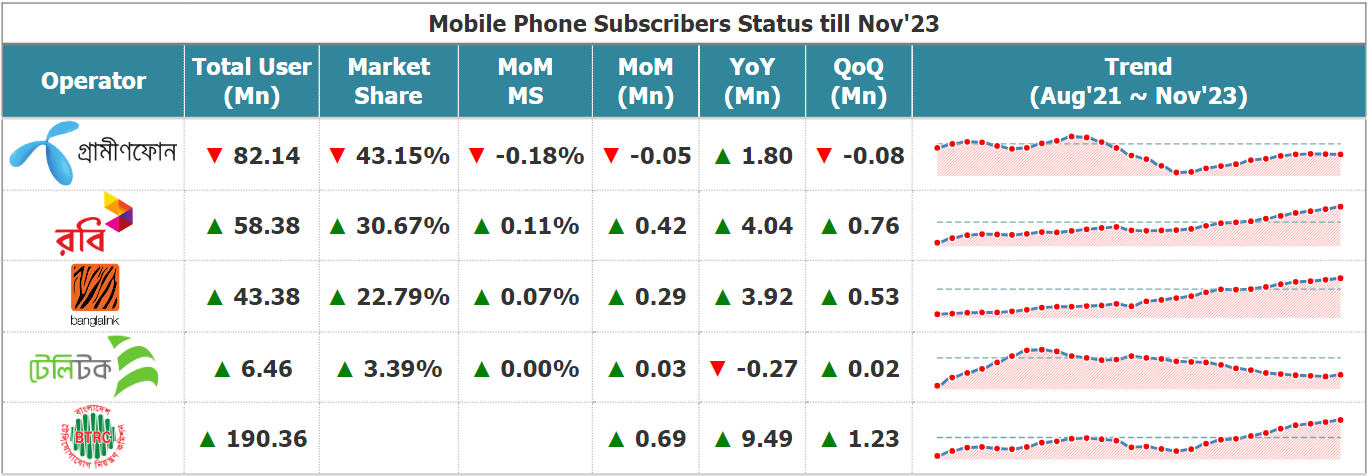
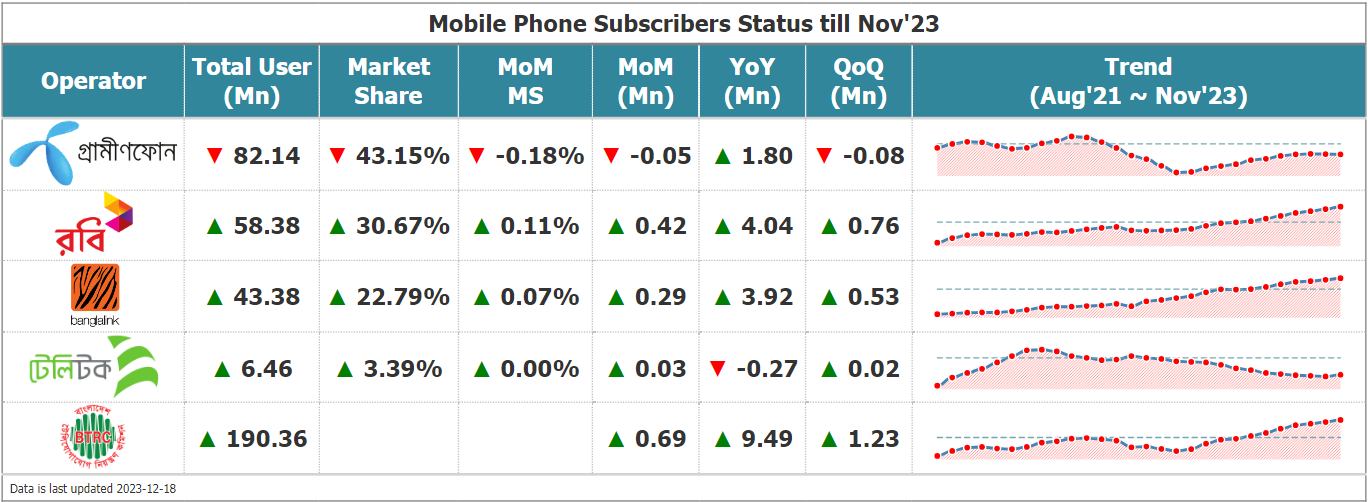
checking

Changed region(s): [[0.0, 0.0294, 1.0, 1.0], [0.1535, 0.7059, 0.2149, 0.7941]]

diff --git a/html/CMS.html b/html/CMS.html
@@ -7,23 +7,23 @@
 
 </head>
 <body>
-<div id="opfiyivmaa" style="padding-left:0px;padding-right:0px;padding-top:10px;padding-bottom:10px;overflow-x:auto;overflow-y:auto;width:auto;height:auto;">
-  <style>#opfiyivmaa table {
+<div id="whzwmldxpf" style="padding-left:0px;padding-right:0px;padding-top:10px;padding-bottom:10px;overflow-x:auto;overflow-y:auto;width:auto;height:auto;">
+  <style>#whzwmldxpf table {
   font-family: Tahoma, system-ui, 'Segoe UI', Roboto, Helvetica, Arial, sans-serif, 'Apple Color Emoji', 'Segoe UI Emoji', 'Segoe UI Symbol', 'Noto Color Emoji';
   -webkit-font-smoothing: antialiased;
   -moz-osx-font-smoothing: grayscale;
 }
 
-#opfiyivmaa thead, #opfiyivmaa tbody, #opfiyivmaa tfoot, #opfiyivmaa tr, #opfiyivmaa td, #opfiyivmaa th {
+#whzwmldxpf thead, #whzwmldxpf tbody, #whzwmldxpf tfoot, #whzwmldxpf tr, #whzwmldxpf td, #whzwmldxpf th {
   border-style: none;
 }
 
-#opfiyivmaa p {
+#whzwmldxpf p {
   margin: 0;
   padding: 0;
 }
 
-#opfiyivmaa .gt_table {
+#whzwmldxpf .gt_table {
   display: table;
   border-collapse: collapse;
   line-height: normal;
@@ -49,12 +49,12 @@
   border-left-color: #808080;
 }
 
-#opfiyivmaa .gt_caption {
+#whzwmldxpf .gt_caption {
   padding-top: 4px;
   padding-bottom: 4px;
 }
 
-#opfiyivmaa .gt_title {
+#whzwmldxpf .gt_title {
   color: #333333;
   font-size: 125%;
   font-weight: initial;
@@ -66,7 +66,7 @@
   border-bottom-width: 0;
 }
 
-#opfiyivmaa .gt_subtitle {
+#whzwmldxpf .gt_subtitle {
   color: #333333;
   font-size: 85%;
   font-weight: initial;
@@ -78,7 +78,7 @@
   border-top-width: 0;
 }
 
-#opfiyivmaa .gt_heading {
+#whzwmldxpf .gt_heading {
   background-color: #FFFFFF;
   text-align: left;
   border-bottom-color: #FFFFFF;
@@ -90,13 +90,13 @@
   border-right-color: #D3D3D3;
 }
 
-#opfiyivmaa .gt_bottom_border {
+#whzwmldxpf .gt_bottom_border {
   border-bottom-style: solid;
   border-bottom-width: 2px;
   border-bottom-color: #808080;
 }
 
-#opfiyivmaa .gt_col_headings {
+#whzwmldxpf .gt_col_headings {
   border-top-style: none;
   border-top-width: 2px;
   border-top-color: #FFFFFF;
@@ -111,7 +111,7 @@
   border-right-color: #D3D3D3;
 }
 
-#opfiyivmaa .gt_col_heading {
+#whzwmldxpf .gt_col_heading {
   color: #FFFFFF;
   background-color: #31869B;
   font-size: 100%;
@@ -131,7 +131,7 @@
   overflow-x: hidden;
 }
 
-#opfiyivmaa .gt_column_spanner_outer {
+#whzwmldxpf .gt_column_spanner_outer {
   color: #FFFFFF;
   background-color: #31869B;
   font-size: 100%;
@@ -143,15 +143,15 @@
   padding-right: 4px;
 }
 
-#opfiyivmaa .gt_column_spanner_outer:first-child {
+#whzwmldxpf .gt_column_spanner_outer:first-child {
   padding-left: 0;
 }
 
-#opfiyivmaa .gt_column_spanner_outer:last-child {
+#whzwmldxpf .gt_column_spanner_outer:last-child {
   padding-right: 0;
 }
 
-#opfiyivmaa .gt_column_spanner {
+#whzwmldxpf .gt_column_spanner {
   border-bottom-style: solid;
   border-bottom-width: 1px;
   border-bottom-color: #FFFFFF;
@@ -163,11 +163,11 @@
   width: 100%;
 }
 
-#opfiyivmaa .gt_spanner_row {
+#whzwmldxpf .gt_spanner_row {
   border-bottom-style: hidden;
 }
 
-#opfiyivmaa .gt_group_heading {
+#whzwmldxpf .gt_group_heading {
   padding-top: 8px;
   padding-bottom: 8px;
   padding-left: 5px;
@@ -193,7 +193,7 @@
   text-align: left;
 }
 
-#opfiyivmaa .gt_empty_group_heading {
+#whzwmldxpf .gt_empty_group_heading {
   padding: 0.5px;
   color: #333333;
   background-color: #FFFFFF;
@@ -208,15 +208,15 @@
   vertical-align: middle;
 }
 
-#opfiyivmaa .gt_from_md > :first-child {
+#whzwmldxpf .gt_from_md > :first-child {
   margin-top: 0;
 }
 
-#opfiyivmaa .gt_from_md > :last-child {
+#whzwmldxpf .gt_from_md > :last-child {
   margin-bottom: 0;
 }
 
-#opfiyivmaa .gt_row {
+#whzwmldxpf .gt_row {
   padding-top: 0.8px;
   padding-bottom: 0.8px;
   padding-left: 5px;
@@ -235,7 +235,7 @@
   overflow-x: hidden;
 }
 
-#opfiyivmaa .gt_stub {
+#whzwmldxpf .gt_stub {
   color: #333333;
   background-color: #FFFFFF;
   font-size: 100%;
@@ -248,7 +248,7 @@
   padding-right: 5px;
 }
 
-#opfiyivmaa .gt_stub_row_group {
+#whzwmldxpf .gt_stub_row_group {
   color: #333333;
   background-color: #FFFFFF;
   font-size: 100%;
@@ -262,15 +262,15 @@
   vertical-align: top;
 }
 
-#opfiyivmaa .gt_row_group_first td {
+#whzwmldxpf .gt_row_group_first td {
   border-top-width: 2px;
 }
 
-#opfiyivmaa .gt_row_group_first th {
+#whzwmldxpf .gt_row_group_first th {
   border-top-width: 2px;
 }
 
-#opfiyivmaa .gt_summary_row {
+#whzwmldxpf .gt_summary_row {
   color: #333333;
   background-color: #FFFFFF;
   text-transform: inherit;
@@ -280,16 +280,16 @@
   padding-right: 5px;
 }
 
-#opfiyivmaa .gt_first_summary_row {
+#whzwmldxpf .gt_first_summary_row {
   border-top-style: solid;
   border-top-color: #D3D3D3;
 }
 
-#opfiyivmaa .gt_first_summary_row.thick {
+#whzwmldxpf .gt_first_summary_row.thick {
   border-top-width: 2px;
 }
 
-#opfiyivmaa .gt_last_summary_row {
+#whzwmldxpf .gt_last_summary_row {
   padding-top: 8px;
   padding-bottom: 8px;
   padding-left: 5px;
@@ -299,7 +299,7 @@
   border-bottom-color: #D3D3D3;
 }
 
-#opfiyivmaa .gt_grand_summary_row {
+#whzwmldxpf .gt_grand_summary_row {
   color: #333333;
   background-color: #FFFFFF;
   text-transform: inherit;
@@ -309,7 +309,7 @@
   padding-right: 5px;
 }
 
-#opfiyivmaa .gt_first_grand_summary_row {
+#whzwmldxpf .gt_first_grand_summary_row {
   padding-top: 8px;
   padding-bottom: 8px;
   padding-left: 5px;
@@ -319,7 +319,7 @@
   border-top-color: #D3D3D3;
 }
 
-#opfiyivmaa .gt_last_grand_summary_row_top {
+#whzwmldxpf .gt_last_grand_summary_row_top {
   padding-top: 8px;
   padding-bottom: 8px;
   padding-left: 5px;
@@ -329,11 +329,11 @@
   border-bottom-color: #D3D3D3;
 }
 
-#opfiyivmaa .gt_striped {
+#whzwmldxpf .gt_striped {
   background-color: #FFFFFF;
 }
 
-#opfiyivmaa .gt_table_body {
+#whzwmldxpf .gt_table_body {
   border-top-style: solid;
   border-top-width: 2px;
   border-top-color: #D3D3D3;
@@ -342,7 +342,7 @@
   border-bottom-color: #D3D3D3;
 }
 
-#opfiyivmaa .gt_footnotes {
+#whzwmldxpf .gt_footnotes {
   color: #333333;
   background-color: #FFFFFF;
   border-bottom-style: none;
@@ -356,7 +356,7 @@
   border-right-color: #D3D3D3;
 }
 
-#opfiyivmaa .gt_footnote {
+#whzwmldxpf .gt_footnote {
   margin: 0px;
   font-size: 90%;
   padding-top: 4px;
@@ -365,7 +365,7 @@
   padding-right: 5px;
 }
 
-#opfiyivmaa .gt_sourcenotes {
+#whzwmldxpf .gt_sourcenotes {
   color: #333333;
   background-color: #FFFFFF;
   border-bottom-style: none;
@@ -379,7 +379,7 @@
   border-right-color: #D3D3D3;
 }
 
-#opfiyivmaa .gt_sourcenote {
+#whzwmldxpf .gt_sourcenote {
   font-size: 90%;
   padding-top: 4px;
   padding-bottom: 4px;
@@ -387,63 +387,63 @@
   padding-right: 5px;
 }
 
-#opfiyivmaa .gt_left {
+#whzwmldxpf .gt_left {
   text-align: left;
 }
 
-#opfiyivmaa .gt_center {
+#whzwmldxpf .gt_center {
   text-align: center;
 }
 
-#opfiyivmaa .gt_right {
+#whzwmldxpf .gt_right {
   text-align: right;
   font-variant-numeric: tabular-nums;
 }
 
-#opfiyivmaa .gt_font_normal {
+#whzwmldxpf .gt_font_normal {
   font-weight: normal;
 }
 
-#opfiyivmaa .gt_font_bold {
+#whzwmldxpf .gt_font_bold {
   font-weight: bold;
 }
 
-#opfiyivmaa .gt_font_italic {
+#whzwmldxpf .gt_font_italic {
   font-style: italic;
 }
 
-#opfiyivmaa .gt_super {
+#whzwmldxpf .gt_super {
   font-size: 65%;
 }
 
-#opfiyivmaa .gt_footnote_marks {
+#whzwmldxpf .gt_footnote_marks {
   font-size: 75%;
   vertical-align: 0.4em;
   position: initial;
 }
 
-#opfiyivmaa .gt_asterisk {
+#whzwmldxpf .gt_asterisk {
   font-size: 100%;
   vertical-align: 0;
 }
 
-#opfiyivmaa .gt_indent_1 {
+#whzwmldxpf .gt_indent_1 {
   text-indent: 5px;
 }
 
-#opfiyivmaa .gt_indent_2 {
+#whzwmldxpf .gt_indent_2 {
   text-indent: 10px;
 }
 
-#opfiyivmaa .gt_indent_3 {
+#whzwmldxpf .gt_indent_3 {
   text-indent: 15px;
 }
 
-#opfiyivmaa .gt_indent_4 {
+#whzwmldxpf .gt_indent_4 {
   text-indent: 20px;
 }
 
-#opfiyivmaa .gt_indent_5 {
+#whzwmldxpf .gt_indent_5 {
   text-indent: 25px;
 }
 </style>
@@ -1235,7 +1235,11 @@ position:relative;"
 </div></td></tr>
   </tbody>
   
-  
+  <tfoot class="gt_footnotes">
+    <tr>
+      <td class="gt_footnote" colspan="8"> Data is last updated 2023-12-18</td>
+    </tr>
+  </tfoot>
 </table>
 </div>
 </body>
